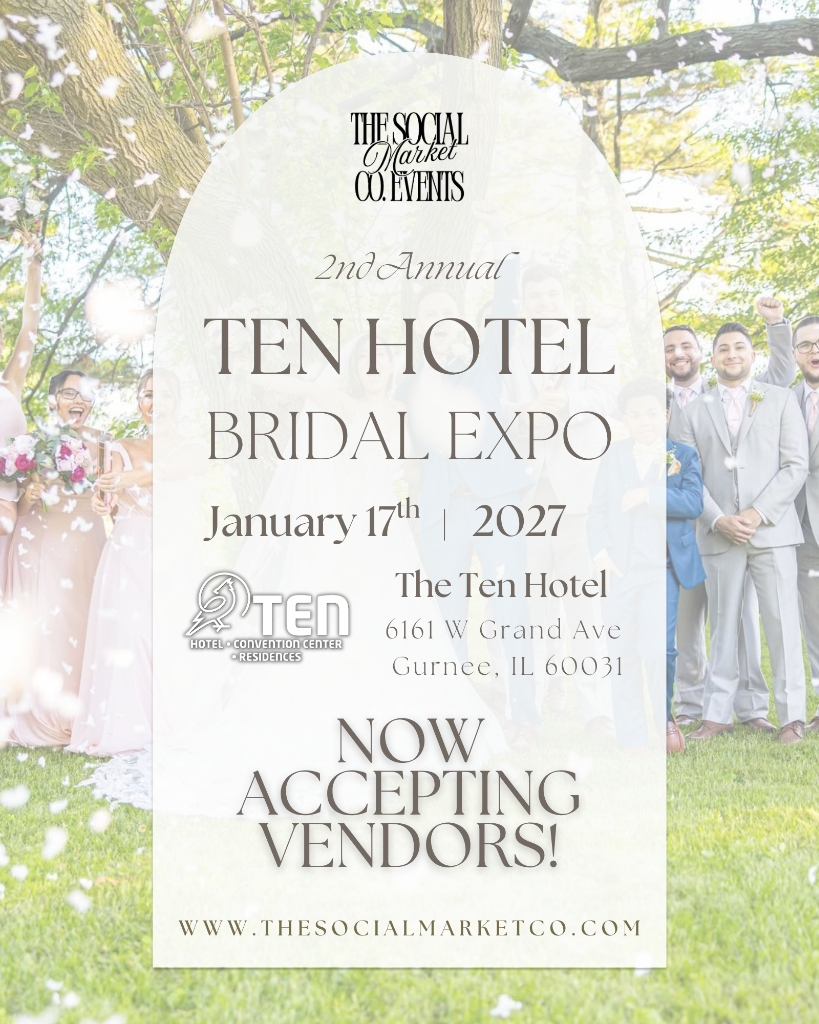
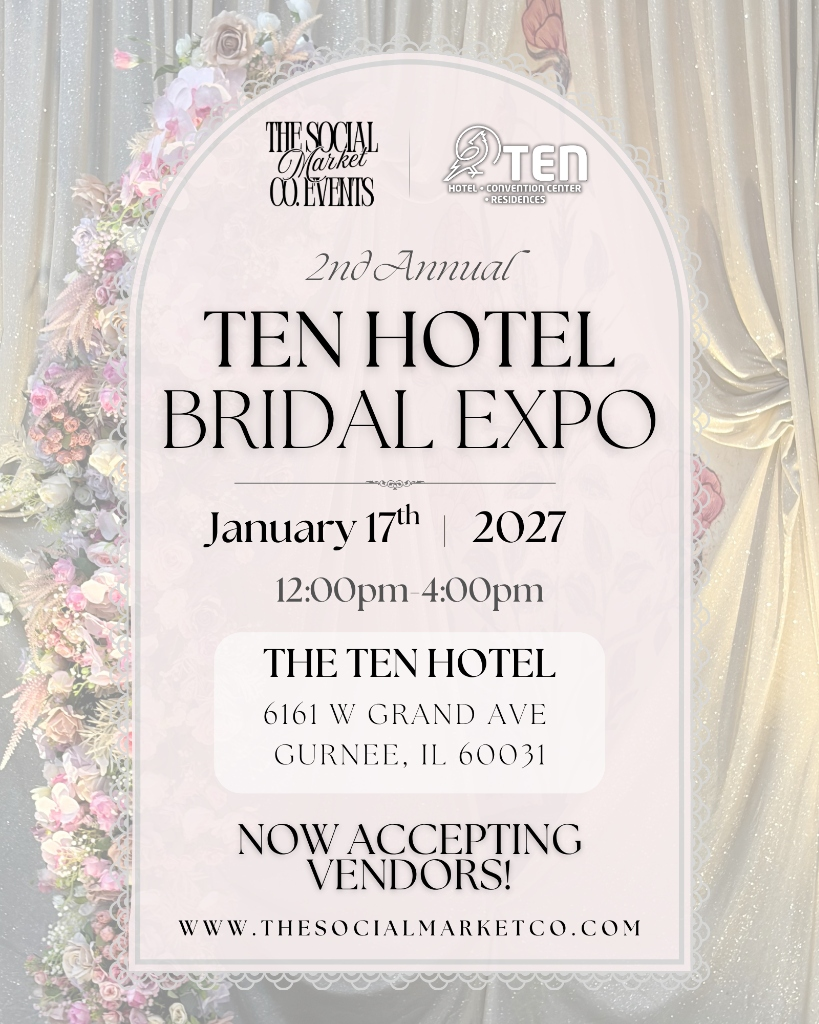
Update events: replace Bridal Expo flyer, add RSVP link, update times

diff --git a/events.html b/events.html
@@ -287,7 +287,8 @@
             </div>
             <div class="event-info">
               <h2 class="event-title">2nd Annual Ten Hotel Bridal Expo</h2>
-              <p class="event-date">Saturday, January 17, 2027 · The Ten Hotel, Gurnee IL</p>
+              <p class="event-date">Saturday, January 17, 2027 · 12–4PM · The Ten Hotel, Gurnee IL</p>
+              <a href="https://www.eventbrite.com/e/2nd-annual-ten-bridal-expo-tickets-1995608039366?utm-campaign=social&amp;utm-content=attendeeshare&amp;utm-medium=discovery&amp;utm-term=listing&amp;utm-source=wsa&amp;aff=ebdsshwebmobile" target="_blank" rel="noopener" class="event-btn">RSVP</a>
             </div>
           </div>
 

diff --git a/vendor-signup.html b/vendor-signup.html
@@ -241,7 +241,7 @@
           </div>
           <div class="event-info">
             <h2 class="event-title">2nd Annual Ten Hotel Bridal Expo</h2>
-            <p class="event-date">Saturday, January 17, 2027 · The Ten Hotel, Gurnee IL</p>
+            <p class="event-date">Saturday, January 17, 2027 · 12–4PM · The Ten Hotel, Gurnee IL</p>
             <a href="https://docs.google.com/forms/d/e/1FAIpQLSeBt1AP_gSrWvaCYmAQNni6WzctsbDueYi01LbYBMdGJmmdxg/viewform" target="_blank" rel="noopener" class="event-btn">Apply</a>
           </div>
         </div>
